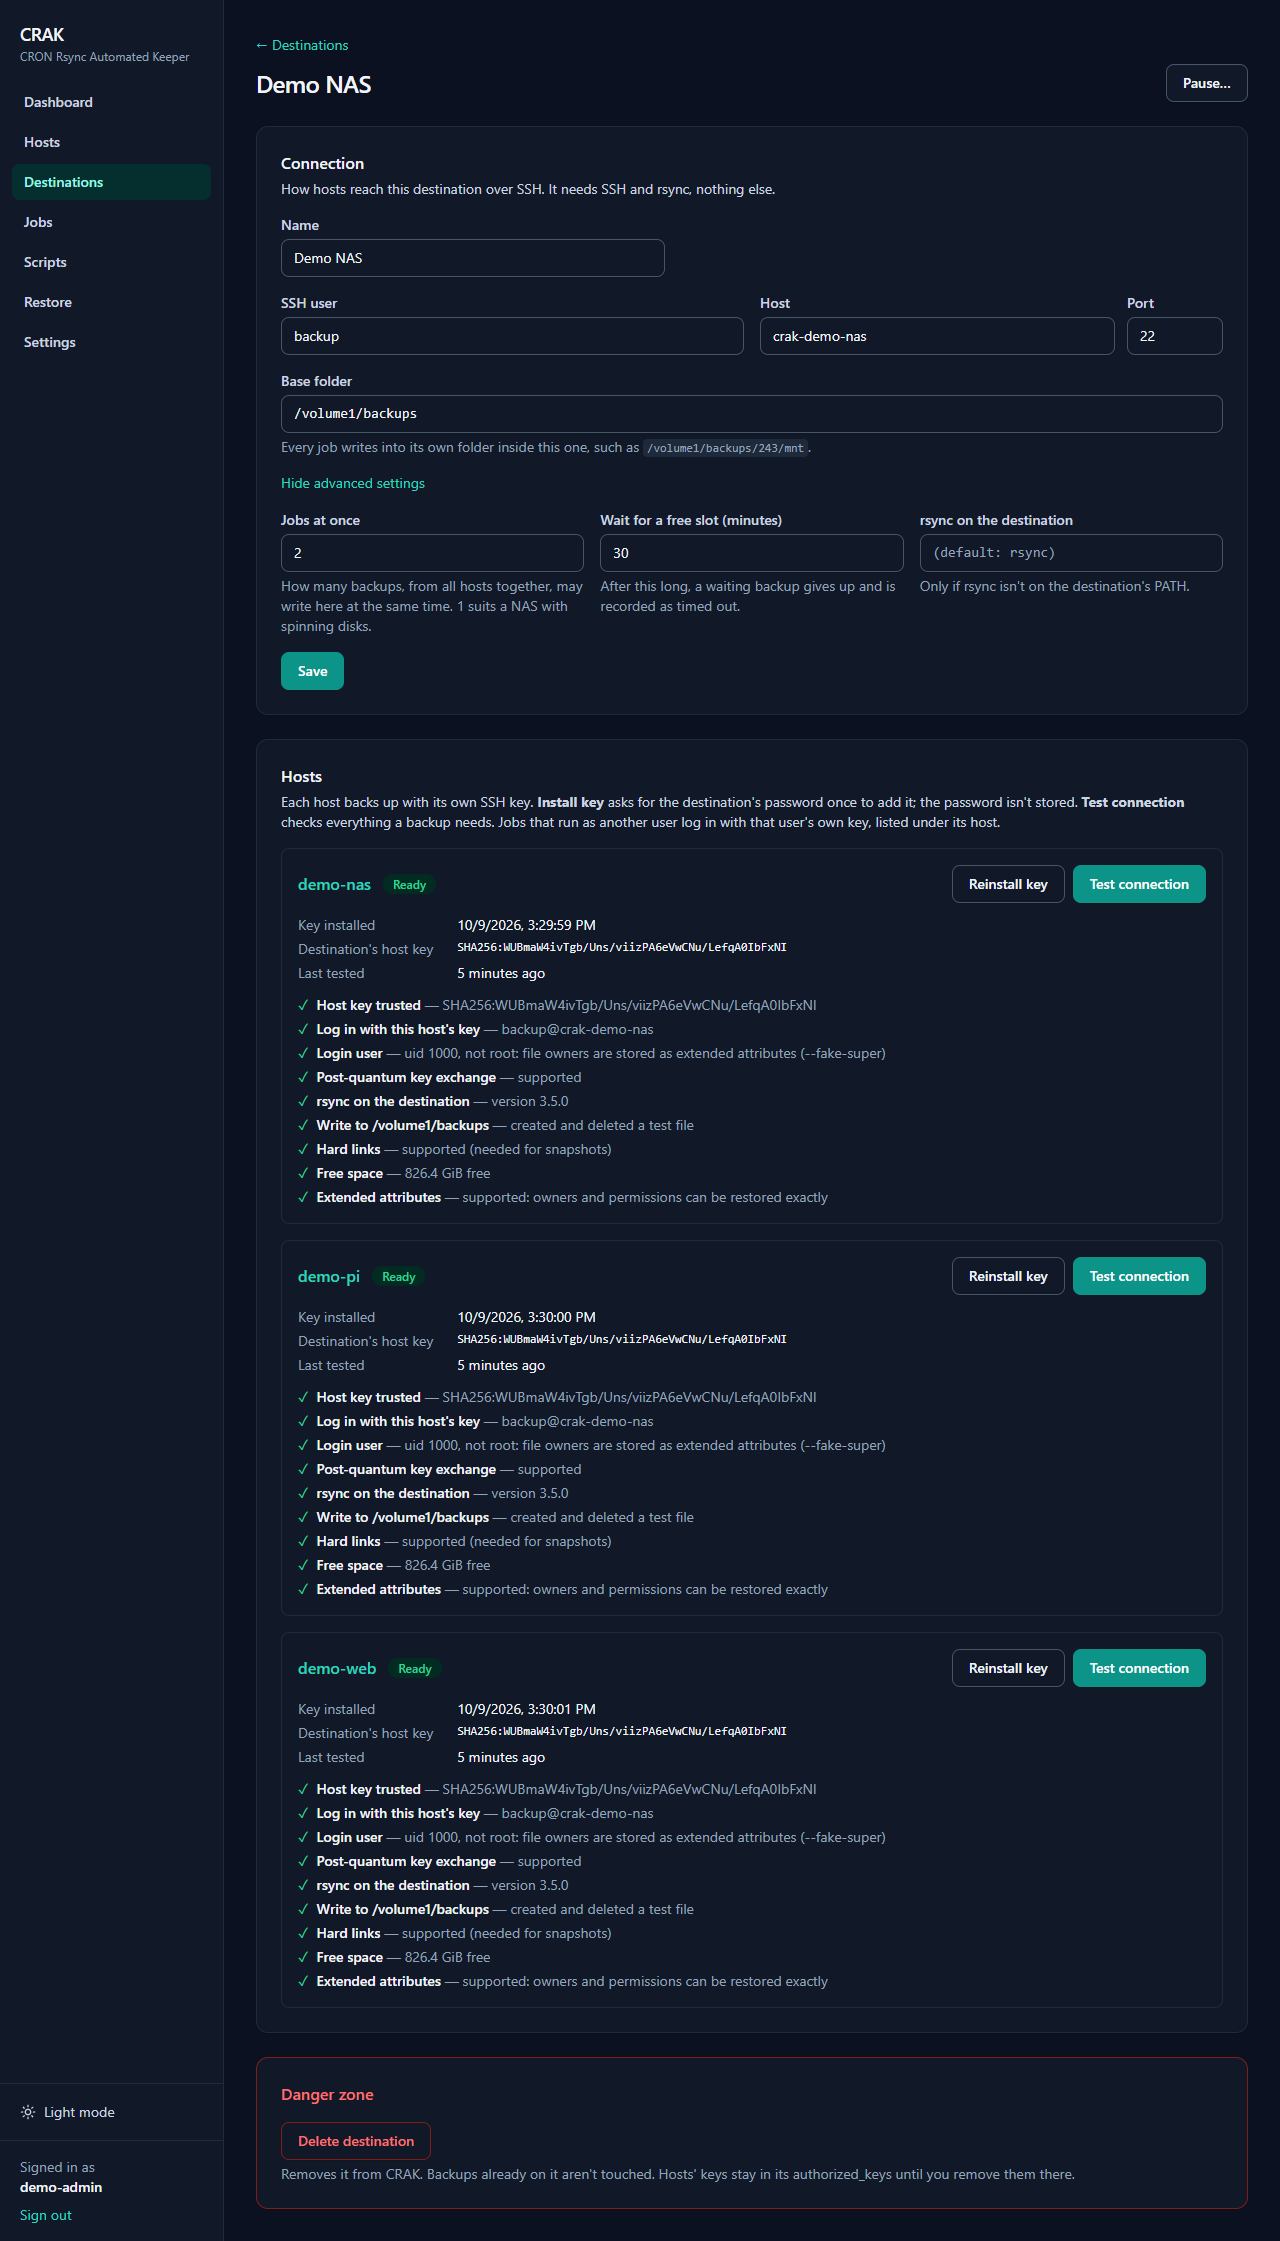
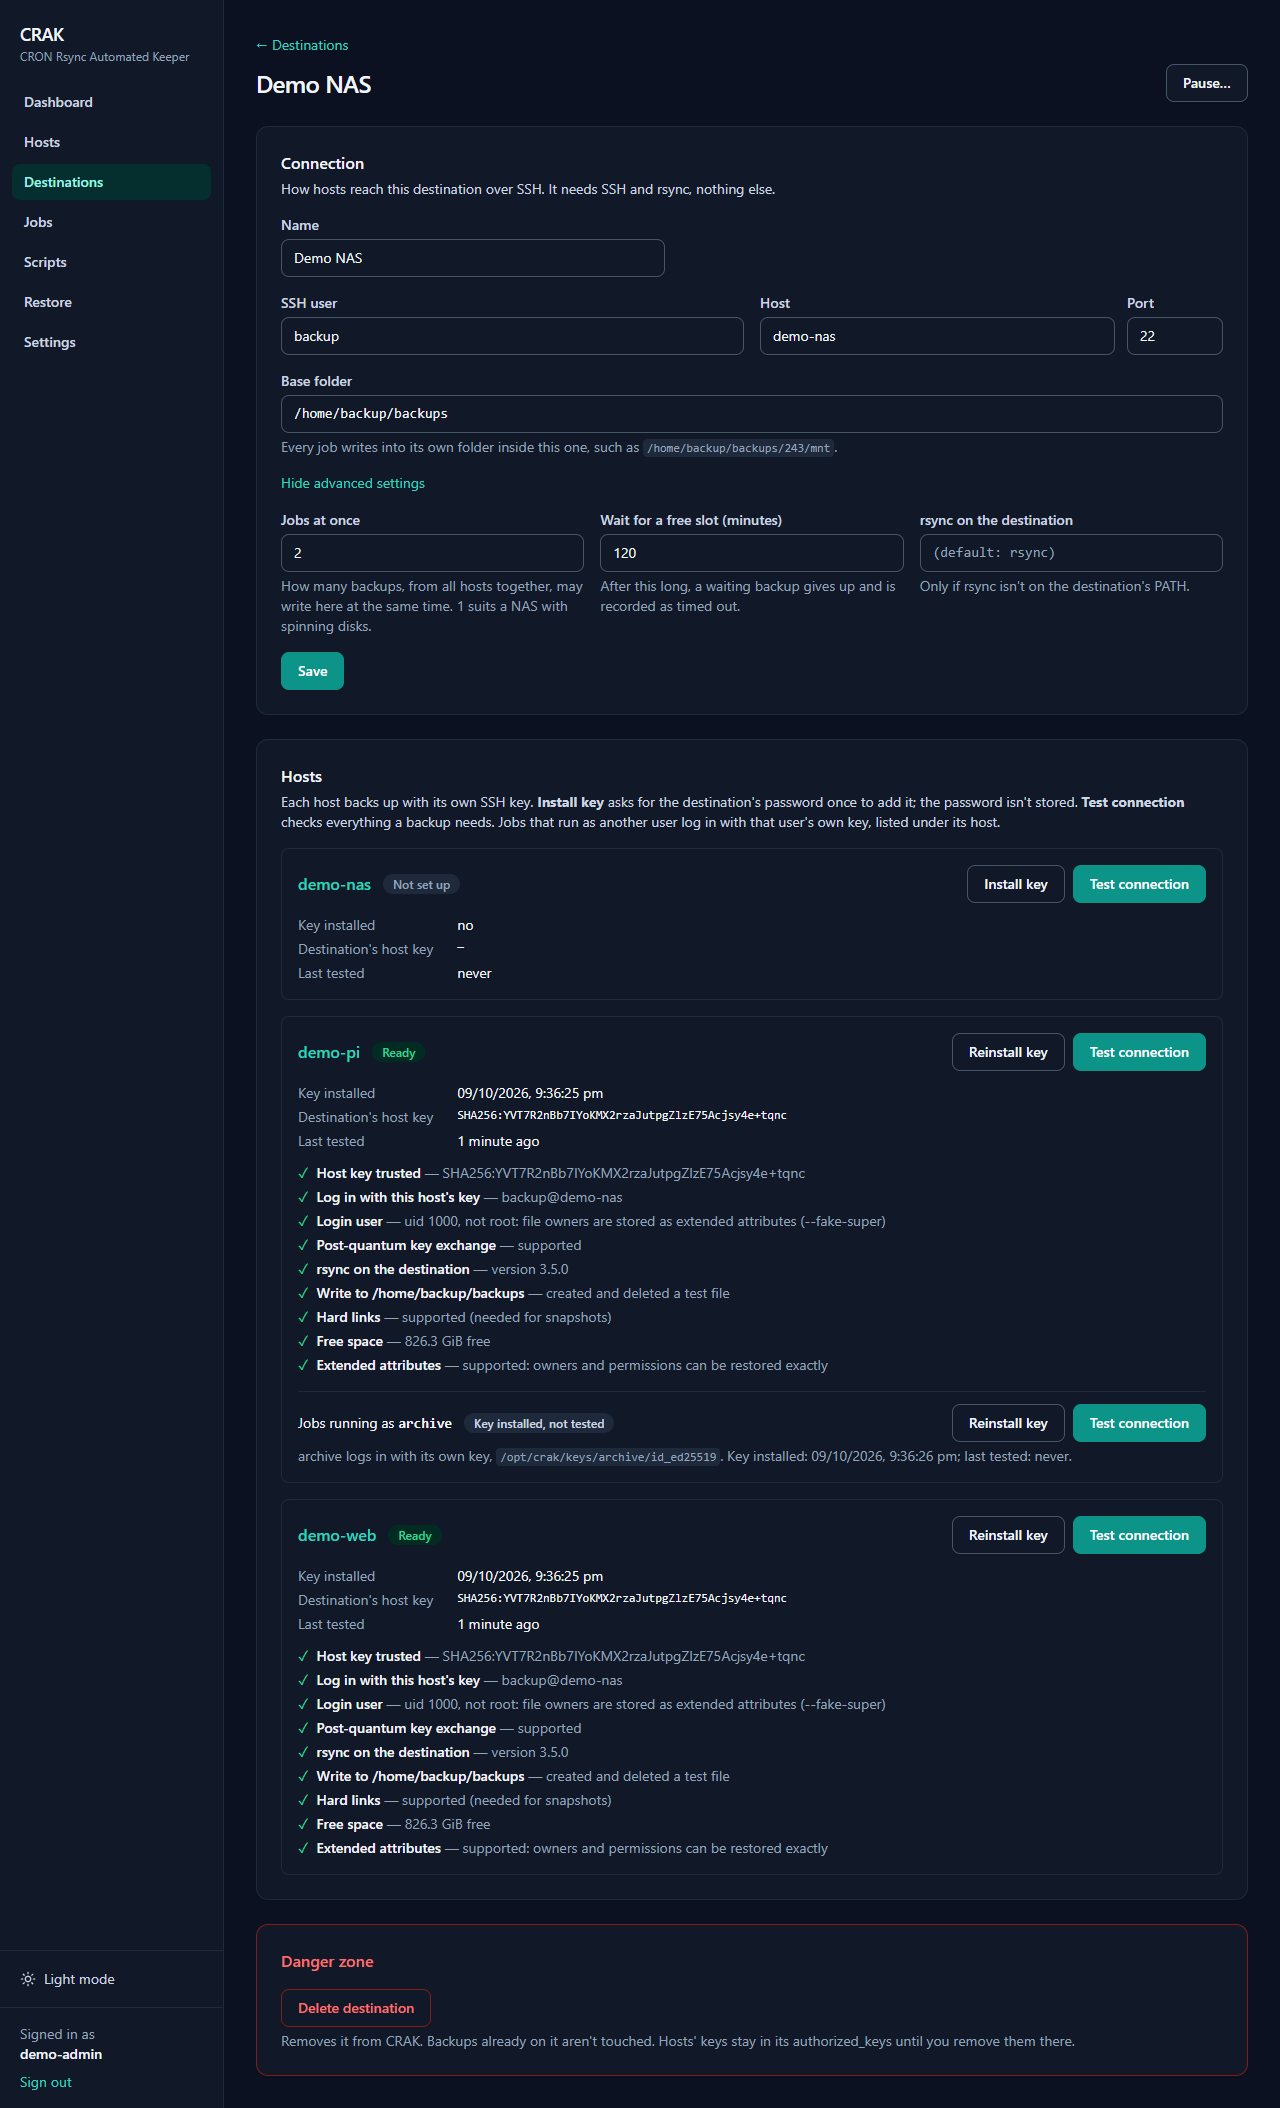
Refresh the CRAK demo for 0.5.0: new screenshots and README
Screenshots are retaken on 0.5.0 in dark mode from a made-up setup on a
test server (demo-web, demo-pi, demo-nas, Demo NAS), and cover the 0.5
features: job notes, Restore to another host, Replace with..., the Run as
user missing alert, pausing a job, verify, CRAK's own backup and the
audit log. The README describes what the screenshots show.

diff --git a/README.md b/README.md
@@ -2,7 +2,7 @@
 
 **CRAK is a web UI for backups across all your machines.** Set up your backups once in the browser, and CRAK puts them into each machine's own cron, collects every result, and tells you when something goes wrong. Backups are plain files that rsync writes, so you can still browse them with `ls` if you ever stop using CRAK.
 
-These screenshots come from a test setup with made-up hosts (`demo-web`, `demo-pi`, `demo-nas`) and made-up data. They show what the real thing looks like in dark mode.
+These screenshots come from a test setup with made-up hosts (`demo-web`, `demo-pi`, `demo-nas`), a made-up destination (`Demo NAS`) and made-up data. They're from CRAK **0.5.0**, in dark mode (the default).
 
 ---
 
@@ -20,7 +20,7 @@ These screenshots come from a test setup with made-up hosts (`demo-web`, `demo-p
 
 ![Dashboard](screenshots/01-dashboard.png)
 
-One page for "is anything on fire?": hosts online, open alerts, jobs whose last run went wrong, and a 30-day chart of every run. Alerts are things like a failed backup, a job that didn't run, or CRAK's own data not being backed up.
+One page for "is anything on fire?": hosts online, open alerts, jobs whose last run went wrong, every run of the last 30 days, and each job's last result and next run. Alerts are things like a failed backup, a job that didn't run, a job whose **Run as** user is missing, or CRAK's own data not being backed up. Resolved alerts stay under *Recently resolved* until you've seen them.
 
 ### Hosts
 
@@ -30,7 +30,13 @@ Every machine running the CRAK agent, with its status, OS, agent version, and ho
 
 ![Host detail](screenshots/03-host-detail.png)
 
-Each host page shows what that machine is ready for: rsync, SSH, cron, flock. It also lists the jobs CRAK has put on it, and any cron jobs it found that CRAK didn't create. You can import those as tasks with one click.
+Each host page shows what that machine is ready for: rsync, SSH, cron and flock. It shows the cron file and job scripts CRAK has put on it, and any cron jobs it found that CRAK didn't create, which you can import as scheduled tasks with one click. The danger zone holds **Replace with…**, **Revoke credential** and **Remove host**.
+
+![Replace with…](screenshots/20-host-replace.png)
+
+**Replace with…** moves every job of a host to another machine, typically the one that replaced a dead one. The jobs keep their history, notes, pauses and destination folders, so the backups carry on where they were. Afterwards it tells you which destinations still need the new machine's key.
+
+![Host, second machine](screenshots/22-host-pi.png)
 
 ### Destinations
 
@@ -40,34 +46,43 @@ A destination is where backups land: a NAS, or any machine with SSH and rsync. C
 
 ![Destination detail](screenshots/05-destination-detail.png)
 
-For each host you install a key once (you type the password one time and CRAK doesn't store it), then **Test connection** checks everything a backup needs: login, rsync, write access, hard links for snapshots, free space, and extended attributes. The test is clear about what's ready and what isn't.
+For each host you install a key once (you type the password one time and CRAK doesn't store it), then **Test connection** checks everything a backup needs: login, rsync, write access, hard links for snapshots, free space, and extended attributes. Jobs that run as another user log in with that user's own key, which is listed under its host.
 
 ### Backup jobs
 
 ![Jobs](screenshots/06-jobs.png)
 
-The jobs list shows every backup at a glance, with its host, destination and last result.
+The jobs list shows every backup at a glance, with its host, destination and last result. Scheduled tasks and CRAK's own backup are in the same list.
 
 ![Job detail](screenshots/07-job-detail.png)
 
 Each job has its own page with:
 
 - What it backs up and where it goes
-- The schedule, with the next run time
+- The schedule, with the next run time, and a **Verify** line showing the last check
+- **Notes**: free text about the job, which is also written into the host's cron file, so it's there on the machine too
 - A run-time chart, so unusually slow runs stand out
-- The full run history, with transferred size and how long each run waited for a free slot
+- The full run history, with what was transferred and how long each run waited for a free slot
 - Revisions, so you can see what changed and when
 
-The **Run now**, **Verify now**, **Restore** and **Pause** buttons are right there.
+**Run now**, **Verify now**, **Edit**, **Restore**, **Pause…** and **Disable** are right at the top.
 
-![New backup job](screenshots/08-job-new.png)
+![Snapshot job](screenshots/17-job-appdata.png)
 
-Creating a job is a form with a live preview. You tick folders in a tree, pick a host and destination, and choose between:
+Snapshot jobs keep a dated copy each run, hard-linked so unchanged files don't take extra space, and the job page lists the snapshot each run made. How many to keep is set per job or in Settings.
+
+![Pause](screenshots/23-job-pause.png)
+
+**Pause…** stops a job's scheduled runs until you resume it, for an hour, for a day, or until a time you choose. You can pause a job, a host, a destination, a group, or everything at once. **Run now** still works while paused.
+
+![Job builder](screenshots/08-job-builder.png)
+
+Creating or editing a job is a form with a live preview. You tick folders in a tree, pick a host and destination, and choose between:
 
 - **Mirror**: one copy, updated each run
-- **Snapshots**: a dated copy each run, hard-linked so unchanged files don't take extra space, with retention
+- **Snapshots**: a dated copy each run, with retention
 
-The options are plain switches, each showing the rsync flag it turns on. On the right, **What will run** shows the exact script and cron line before anything is saved, and when the next runs will happen. The timeline of other jobs on the same destination helps you avoid overlaps.
+The options are plain switches, each showing the rsync flag it turns on, and **Run as** lets a job back up as another user on the host. On the right, **What will run** shows the exact script and cron line before anything is saved, and the next runs. The timeline of other jobs on the same destination helps you avoid overlaps. **Verify the backup** can compare the backup with the source, monthly or on its own schedule.
 
 ![Job script](screenshots/09-job-script.png)
 
@@ -91,7 +106,7 @@ Each script has versions, variables with defaults, and a preview that shows exac
 
 ![Task](screenshots/16-task-detail.png)
 
-Scheduled tasks show up in the same jobs list, and they have their own run history.
+Scheduled tasks show up in the same jobs list, with their own run history.
 
 ### Run results
 
@@ -99,17 +114,29 @@ Scheduled tasks show up in the same jobs list, and they have their own run histo
 
 Every run has a result (what rsync reported, exit code, timings), a statistics panel, and the full log, which you can search or download. When a run fails, the reason is in plain words.
 
+![Failed run](screenshots/18-run-failed.png)
+
+Here the job runs as `archive`, which can't read a root-only file. The run says so, names the file and suggests the fix, instead of leaving you to decode exit code 23.
+
+![Run as a missing user](screenshots/21-job-old-projects.png)
+
+If a job's **Run as** user doesn't exist on its host, CRAK holds that one job back, raises an alert, and shows why at the top of the job page. The host's other jobs still deploy. **Check again** looks once more after you've created the user.
+
 ### Restore
 
 ![Restore](screenshots/13-restore.png)
 
-Pick a host and a job, then choose which copy to restore from. The folder tree shows files where they were on the original machine, so you tick what you want back and restore it in place or into another folder.
+Pick the host a backup came from, the job, and the copy to restore from. The folder tree shows files where they were on the original machine, so you tick what you want back and restore it in place or into another folder.
+
+![Restore to another host](screenshots/19-restore-to-host.png)
+
+**Restore to** can be another machine, such as a replacement for a dead one. That machine reads the backup with its own key, so the page warns you if CRAK hasn't installed the key on the destination yet. The dry run, overwrite option and "where to" choice work as they do for the original host.
 
 ### Settings
 
 ![Settings](screenshots/14-settings.png)
 
-Settings are grouped into four parts: backups (retention, snapshots, and CRAK's own backup), notifications and alerts (Discord, or just the dashboard), integrations (Prometheus metrics, export and import), and the account (password and audit log).
+Settings are grouped into four parts: backups (how long runs are kept, snapshot retention, and CRAK's own backup), notifications and alerts (Discord, or just the dashboard), integrations (Prometheus metrics, and export and import as YAML), and the account (password and audit log). The audit log records every change, with who made it and from where.
 
 ---
 
@@ -130,6 +157,6 @@ Every change goes through the server, which sends it to the agent. CRAK never ru
 ## Good to know
 
 - It's built for **Linux** machines (the agent is Linux-only, and the images are `linux/amd64`).
-- It's meant for a **private network**.
-- Releases are versioned, so updates are deliberate. The current release is **0.4.0**.
+- It's meant for a **private network**. There's one admin login.
+- Releases are versioned, so updates are deliberate. The current release is **0.5.0**.
 - Everything is open for you to read: the scripts, the cron lines and the backups themselves.
